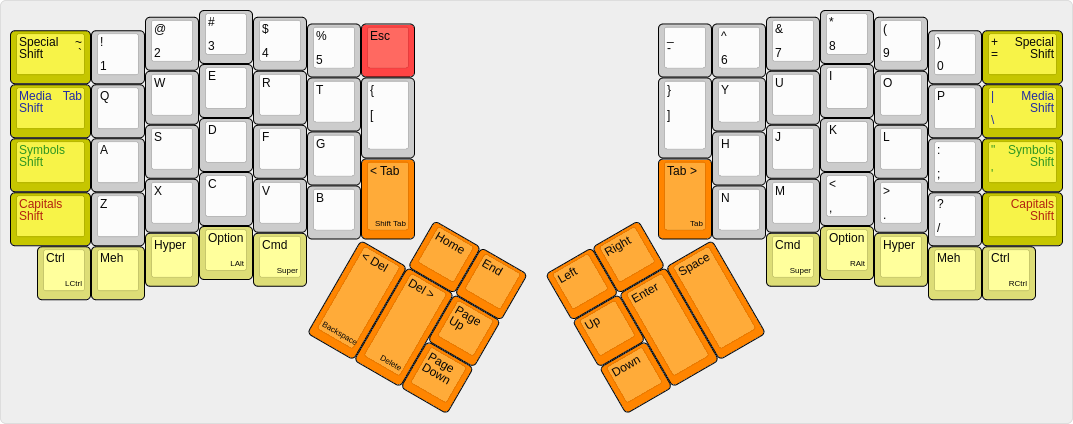
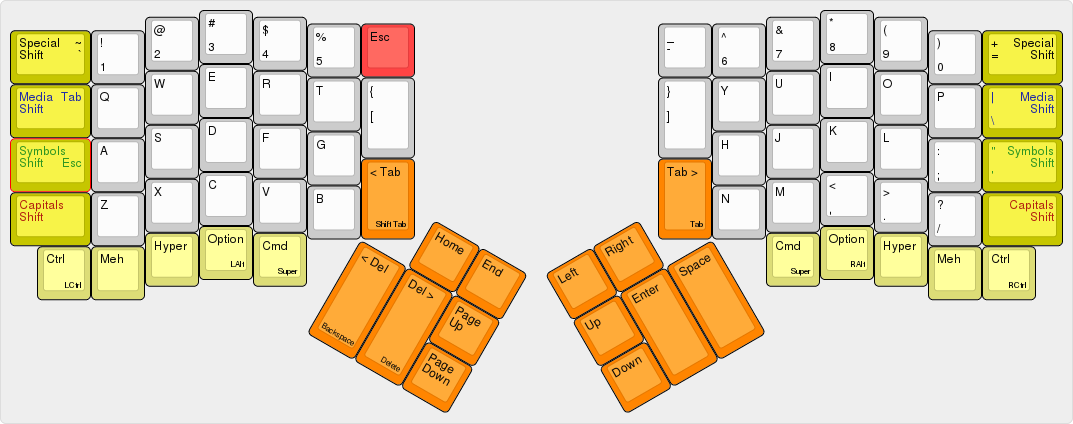
[extraordinary layout] Tap LSymbol for Esc

diff --git a/keyboards/ergodox/keymaps/extraordinary/keymap.c b/keyboards/ergodox/keymaps/extraordinary/keymap.c
@@ -44,7 +44,7 @@ const uint16_t PROGMEM keymaps[][MATRIX_ROWS][MATRIX_COLS] = {
  * |------------+------+------+------+------+-------------|       |------+------+------+------+------+------+------------|
  * | Media  Tab |   Q  |   W  |   E  |   R  |   T  |   [  |       |  ]   |   Y  |   U  |   I  |   O  |   P  | \|   Media |
  * |------------+------+------+------+------+------|      |       |      |------+------+------+------+------+------------|
- * | Symbol     |   A  |   S  |   D  |   F  |   G  |------|       |------|   H  |   J  |   K  |   L  |  ;   | '"  Symbol |
+ * | Symbol Esc |   A  |   S  |   D  |   F  |   G  |------|       |------|   H  |   J  |   K  |   L  |  ;   | '"  Symbol |
  * |------------+------+------+------+------+------|Shift |       | Tab  |------+------+------+------+------+------------|
  * | Capitals   |   Z  |   X  |   C  |   V  |   B  | -Tab |       |      |   N  |   M  |   ,  |   .  |  /   |   Capitals |
  * `------------+------+------+------+------+-------------'       `-------------+------+------+------+------+------------'
@@ -62,7 +62,7 @@ const uint16_t PROGMEM keymaps[][MATRIX_ROWS][MATRIX_COLS] = {
 // left hand
  F(LSpec)  ,KC_1   ,KC_2   ,KC_3   ,KC_4  ,KC_5  ,KC_ESC
 ,F(LMdia)  ,KC_Q   ,KC_W   ,KC_E   ,KC_R  ,KC_T  ,KC_LBRC
-,M(LSymb)  ,KC_A   ,KC_S   ,KC_D   ,KC_F  ,KC_G
+,F(LSymb)  ,KC_A   ,KC_S   ,KC_D   ,KC_F  ,KC_G
 ,KC_LSFT   ,KC_Z   ,KC_X   ,KC_C   ,KC_V  ,KC_B  ,LSFT(KC_TAB)
 ,KC_LCTL   ,KC_MEH ,KC_HYPR,KC_LALT,KC_LGUI
                                          ,KC_HOME,KC_END
@@ -232,14 +232,22 @@ const macro_t *action_get_macro(keyrecord_t *record, uint8_t id, uint8_t opt)
         // only because sometimes rapid pressing led to irregular events; this way the states
         // are self healing during use.
 
-        case LSymb:                                               //
-        if (record->event.pressed) {                              // when the LSymb button is pressed
-            if(++symb_shift > 2) mdia_shift = 2;                  // increment the symb shift count, max two
-            if(spec_shift) symb_lock = !symb_lock;                // if the Special layer is on, toggle the shift lock
-            layer_on(SYMB);                                       // in any case, turn on the Symbols layer
-        } else {                                                  // when the LSymb button is released
-            if(--symb_shift < 0) symb_shift = 0;                  // decrement the shift count, minimum zero
-            if((!symb_shift) && (!symb_lock)) layer_off(SYMB);    // if both shifts are released and the lock is off, turn off the Symbols layer
+        case LSymb:
+        if (record->event.pressed) {                                // when the LSymb button is pressed
+            if (record->tap.count && (!symb_shift) && (!symb_lock) && (!spec_shift)) {
+                register_code(KC_ESC);                              // if it's an uninterrupted tap, emit a char
+            } else {
+                if(++symb_shift > 2) symb_shift = 2;                // otherwise, increment the symb shift count, max two
+                if(spec_shift) symb_lock = !symb_lock;              // if the Special layer is on, toggle the shift lock
+                layer_on(SYMB);                                     // in any case, turn on the Symbols layer
+            }
+        } else {                                                    // when the LSymb button is released
+            if(record->tap.count && (!symb_shift) && (!symb_lock) && (!spec_shift)) {
+                unregister_code(KC_ESC);
+            } else {
+                if(--symb_shift < 0) symb_shift = 0;                // decrement the shift count, minimum zero
+                if((!symb_shift) && (!symb_lock)) layer_off(SYMB);  // if both shifts are released and the lock is off, turn off the Symbols layer
+            }
         }
         break;
 
